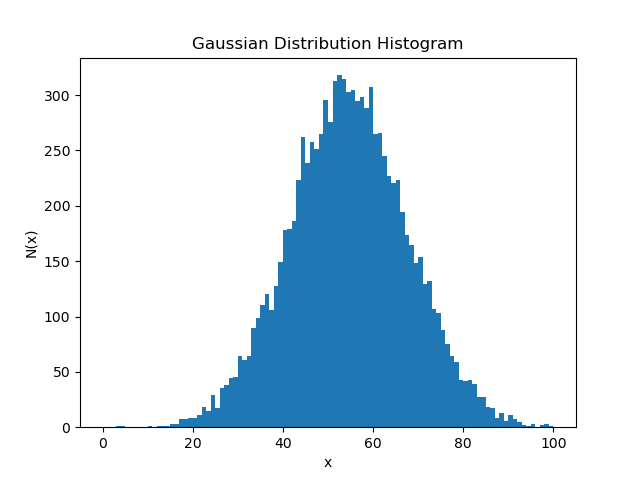
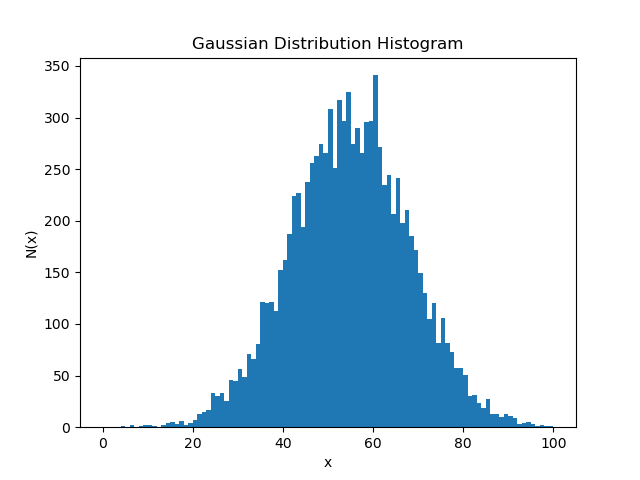
Finshing HW 4, copy and checking on stokes

diff --git a/homework/hw4_kenzb4/hw4_kenzb4.py b/homework/hw4_kenzb4/hw4_kenzb4.py
@@ -1,0 +1,74 @@
+#!/usr/bin/env python
+# coding: utf-8
+
+# In[14]:
+
+
+#Mackenzie Brown
+#Homework 4 
+#9/16/2026
+
+
+# In[15]:
+
+
+#imports
+import numpy as np
+import matplotlib.pyplot as plt
+
+
+# In[17]:
+
+
+print("Problem 2")
+
+#2a draw random sample of N from gauss dist with given N, sigma, and mu
+N = 10000 # number of observations
+sigma = 13 # standard deviation
+mu = 55 # mean
+s = np.random.normal(mu, sigma, N) #draws samples from normal gaussian distribution
+
+
+# In[18]:
+
+
+#2b plot histogram of sample (bins 0-100), width 1, save png
+
+plt.hist(s, bins = range(0,101)) #plot of given N, mu, and sigma values
+# sets bin numbers 0-100 width of 1
+plt.title("Gaussian Distribution Histogram")
+plt.ylabel("N(x)")
+plt.xlabel("x")
+plt.savefig('hw4_kenzb4_graph1.png') #save as png
+
+ 
+
+
+# In[19]:
+
+
+#2c overplot gaussian distribution
+
+bins = np.arange(0.5, 100, 1) # redefine bins so they approx in center of bin
+gaus_eq = 1/(sigma * np.sqrt(2 * np.pi)) * np.exp(-(bins - mu)**2 / (2 * sigma**2))
+# gaussian function with my variables 
+plt.hist(s, bins = range(0,101)) #regular plot 
+plt.plot(bins, N * gaus_eq, color = 'r', linewidth = 3) # plot line, account for larger sample
+# multiply function by large N
+plt.title("Histogram of Gaussian")
+plt.ylabel("N(x)")
+plt.xlabel("x")
+plt.savefig('hw4_kenzb4_graph2.png') #save another png for this graph
+
+
+# In[ ]:
+
+
+
+
+
+# In[ ]:
+
+
+
+
